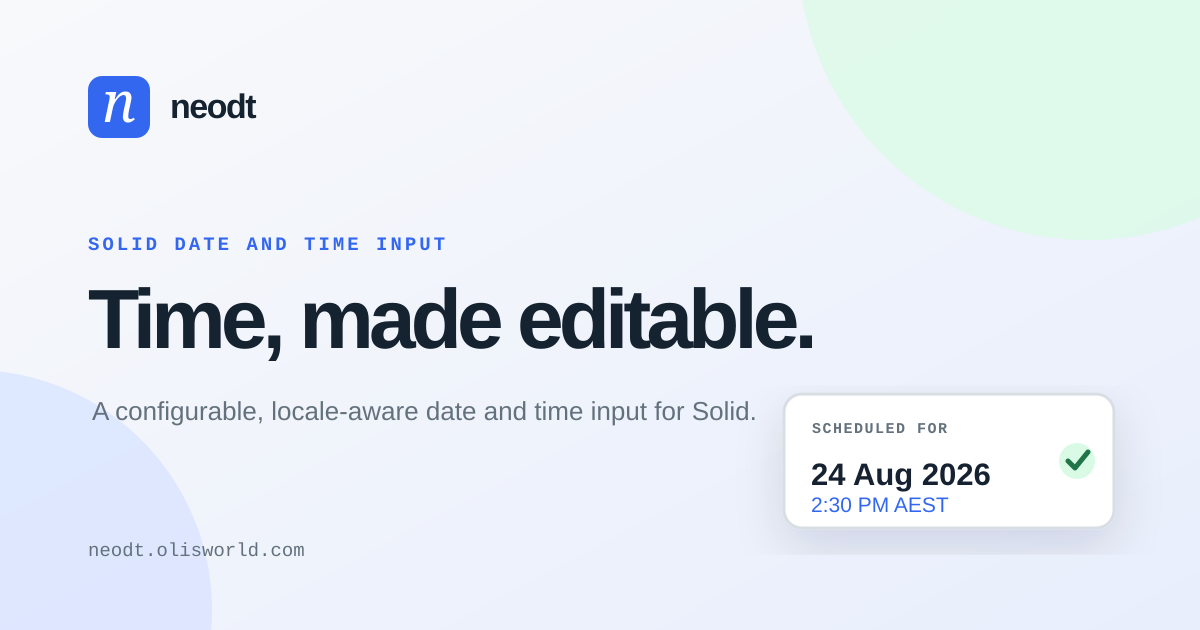
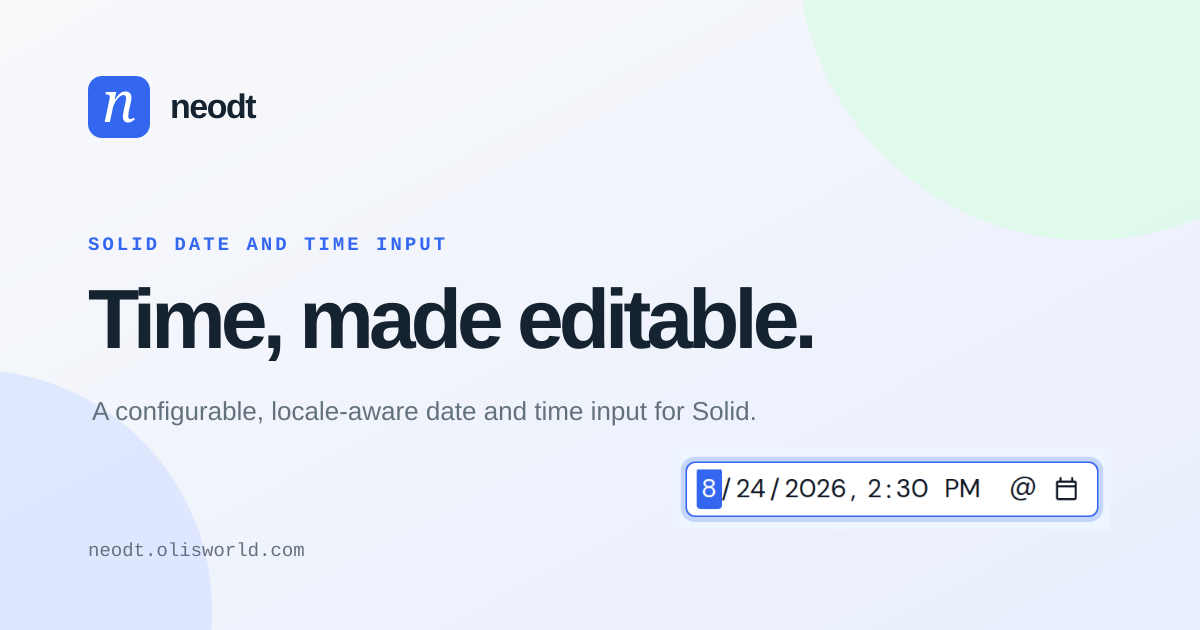
Use real screenshot for social-card

Changed region(s): [[0.555, 0.6937, 0.925, 0.8444], [0.6783, 0.6032, 0.925, 0.6333], [0.6783, 0.6635, 0.8017, 0.6937]]

diff --git a/dev/App.tsx b/dev/App.tsx
@@ -80,7 +80,7 @@ const App: Component = () => {
   const [disabled, setDisabled] = makePersistedSignal(false, {
     name: "neodt-configuration-lab-disabled",
   });
-  const [previewWidth, setPreviewWidth] = makePersistedSignal(320, {
+  const [previewWidth, setPreviewWidth] = makePersistedSignal(260, {
     name: "neodt-configuration-lab-preview-width",
   });
   let previewInputArea: HTMLDivElement | undefined;
@@ -139,7 +139,7 @@ const App: Component = () => {
     setShowTimeOffset(false);
     setReadonly(false);
     setDisabled(false);
-    setPreviewWidth(320);
+    setPreviewWidth(260);
   };
 
   const setReferenceTimezone = (nextTimezone: Timezone) => {
